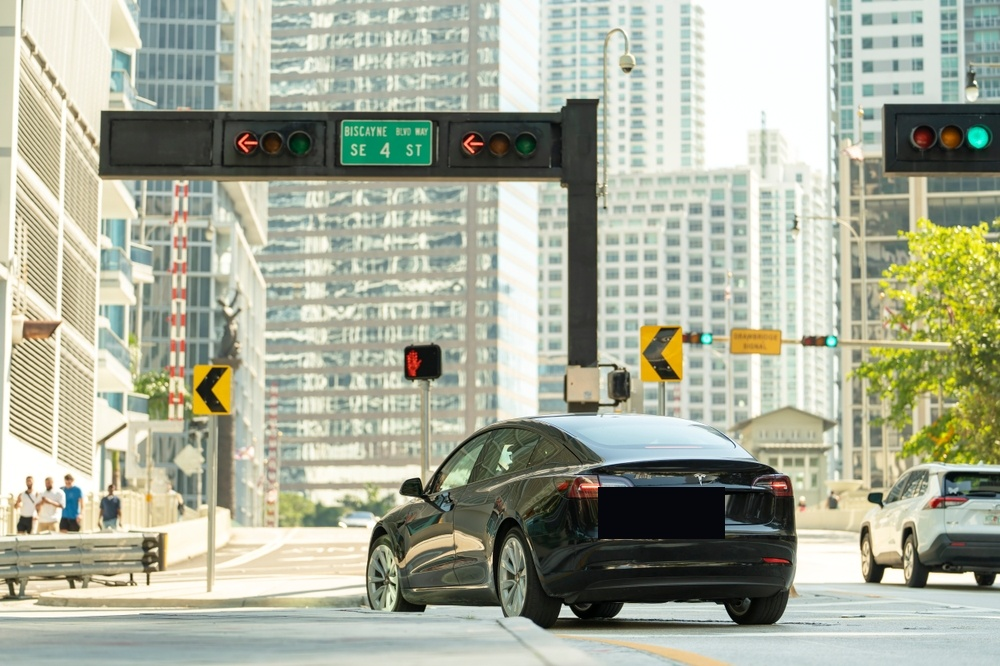
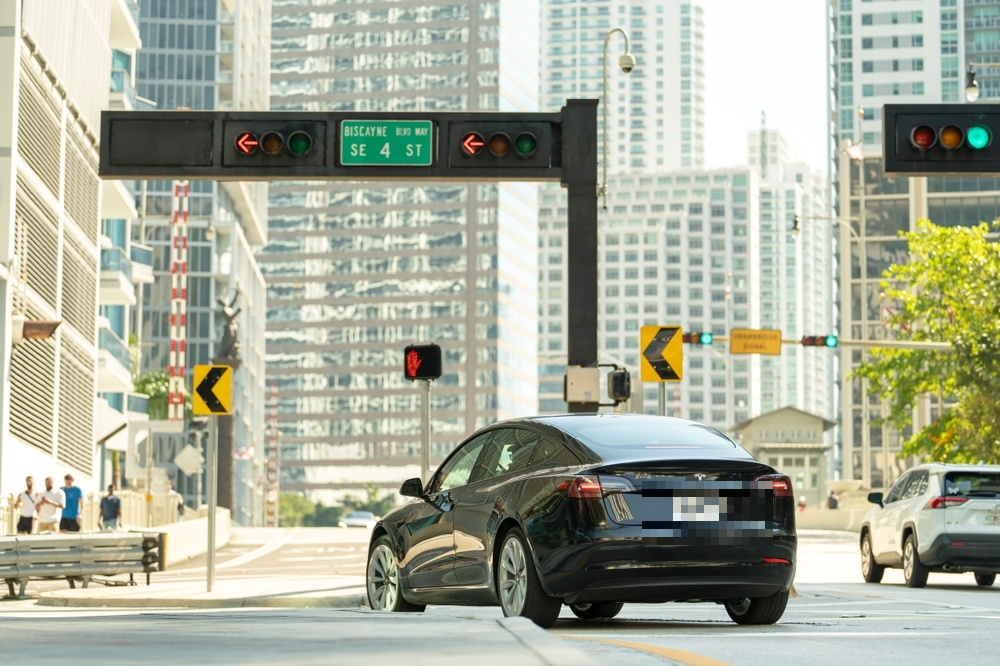
Switch redaction demo to pixelate and use it on the homepage too
Black box on a black car had almost no contrast, so the redaction
wasn't visually obvious. Pixelate reads clearly regardless of the
underlying color. Re-ran the same real photo through the actual
tool with pixelate mode and replaced the asset used on both the
Redactor page and the homepage's abstract "sensitive areas covered"
placeholder shapes, which are now the real photo too.

Changed region(s): [[0.589, 0.7207, 0.775, 0.8108]]

diff --git a/src/styles.css b/src/styles.css
@@ -504,69 +504,17 @@ footer .logo-mark img {
 
 .demo-photo {
   aspect-ratio: 16 / 10;
-  background:
-    linear-gradient(135deg, rgba(96, 165, 250, 0.16), transparent 48%),
-    linear-gradient(45deg, #182337, #0d1522);
   border: 1px solid var(--hairline);
   border-radius: 6px;
   overflow: hidden;
   position: relative;
 }
 
-.demo-person,
-.demo-box {
-  position: absolute;
-}
-
-.demo-person {
-  background: rgba(238, 241, 245, 0.14);
-  border-radius: 999px 999px 18px 18px;
-}
-
-.demo-person.one {
-  height: 58%;
-  left: 15%;
-  top: 26%;
-  width: 24%;
-}
-
-.demo-person.two {
-  height: 68%;
-  right: 16%;
-  top: 18%;
-  width: 28%;
-}
-
-.demo-box.black {
-  background: #05070d;
-  height: 32%;
-  left: 11%;
-  top: 31%;
-  width: 31%;
-}
-
-.demo-box.blur {
-  backdrop-filter: blur(22px);
-  background: rgba(9, 17, 31, 0.36);
-  height: 34%;
-  left: 44%;
-  top: 20%;
-  width: 22%;
-}
-
-.demo-box.pixel {
-  background:
-    linear-gradient(45deg, rgba(96, 165, 250, 0.52) 25%, transparent 25%),
-    linear-gradient(-45deg, rgba(96, 165, 250, 0.52) 25%, transparent 25%),
-    linear-gradient(45deg, transparent 75%, rgba(96, 165, 250, 0.52) 75%),
-    linear-gradient(-45deg, transparent 75%, rgba(96, 165, 250, 0.52) 75%);
-  background-color: rgba(239, 68, 68, 0.18);
-  background-position: 0 0, 0 7px, 7px -7px, -7px 0;
-  background-size: 14px 14px;
-  height: 36%;
-  right: 8%;
-  top: 39%;
-  width: 31%;
+.demo-photo img {
+  display: block;
+  height: 100%;
+  object-fit: cover;
+  width: 100%;
 }
 
 .size-bar {

diff --git a/src/App.tsx b/src/App.tsx
@@ -466,11 +466,7 @@ function HubPage({ RouteLink }: { RouteLink: React.ComponentType<RouteLinkProps>
                   <span>Sensitive areas covered</span>
                 </div>
                 <div className="demo-photo">
-                  <span className="demo-person one" />
-                  <span className="demo-person two" />
-                  <span className="demo-box black" />
-                  <span className="demo-box blur" />
-                  <span className="demo-box pixel" />
+                  <img src="/demo/tesla-plate-redacted.jpg" alt="" width={1000} height={666} loading="lazy" />
                 </div>
               </div>
               <div className="demo-panel compress-demo">
